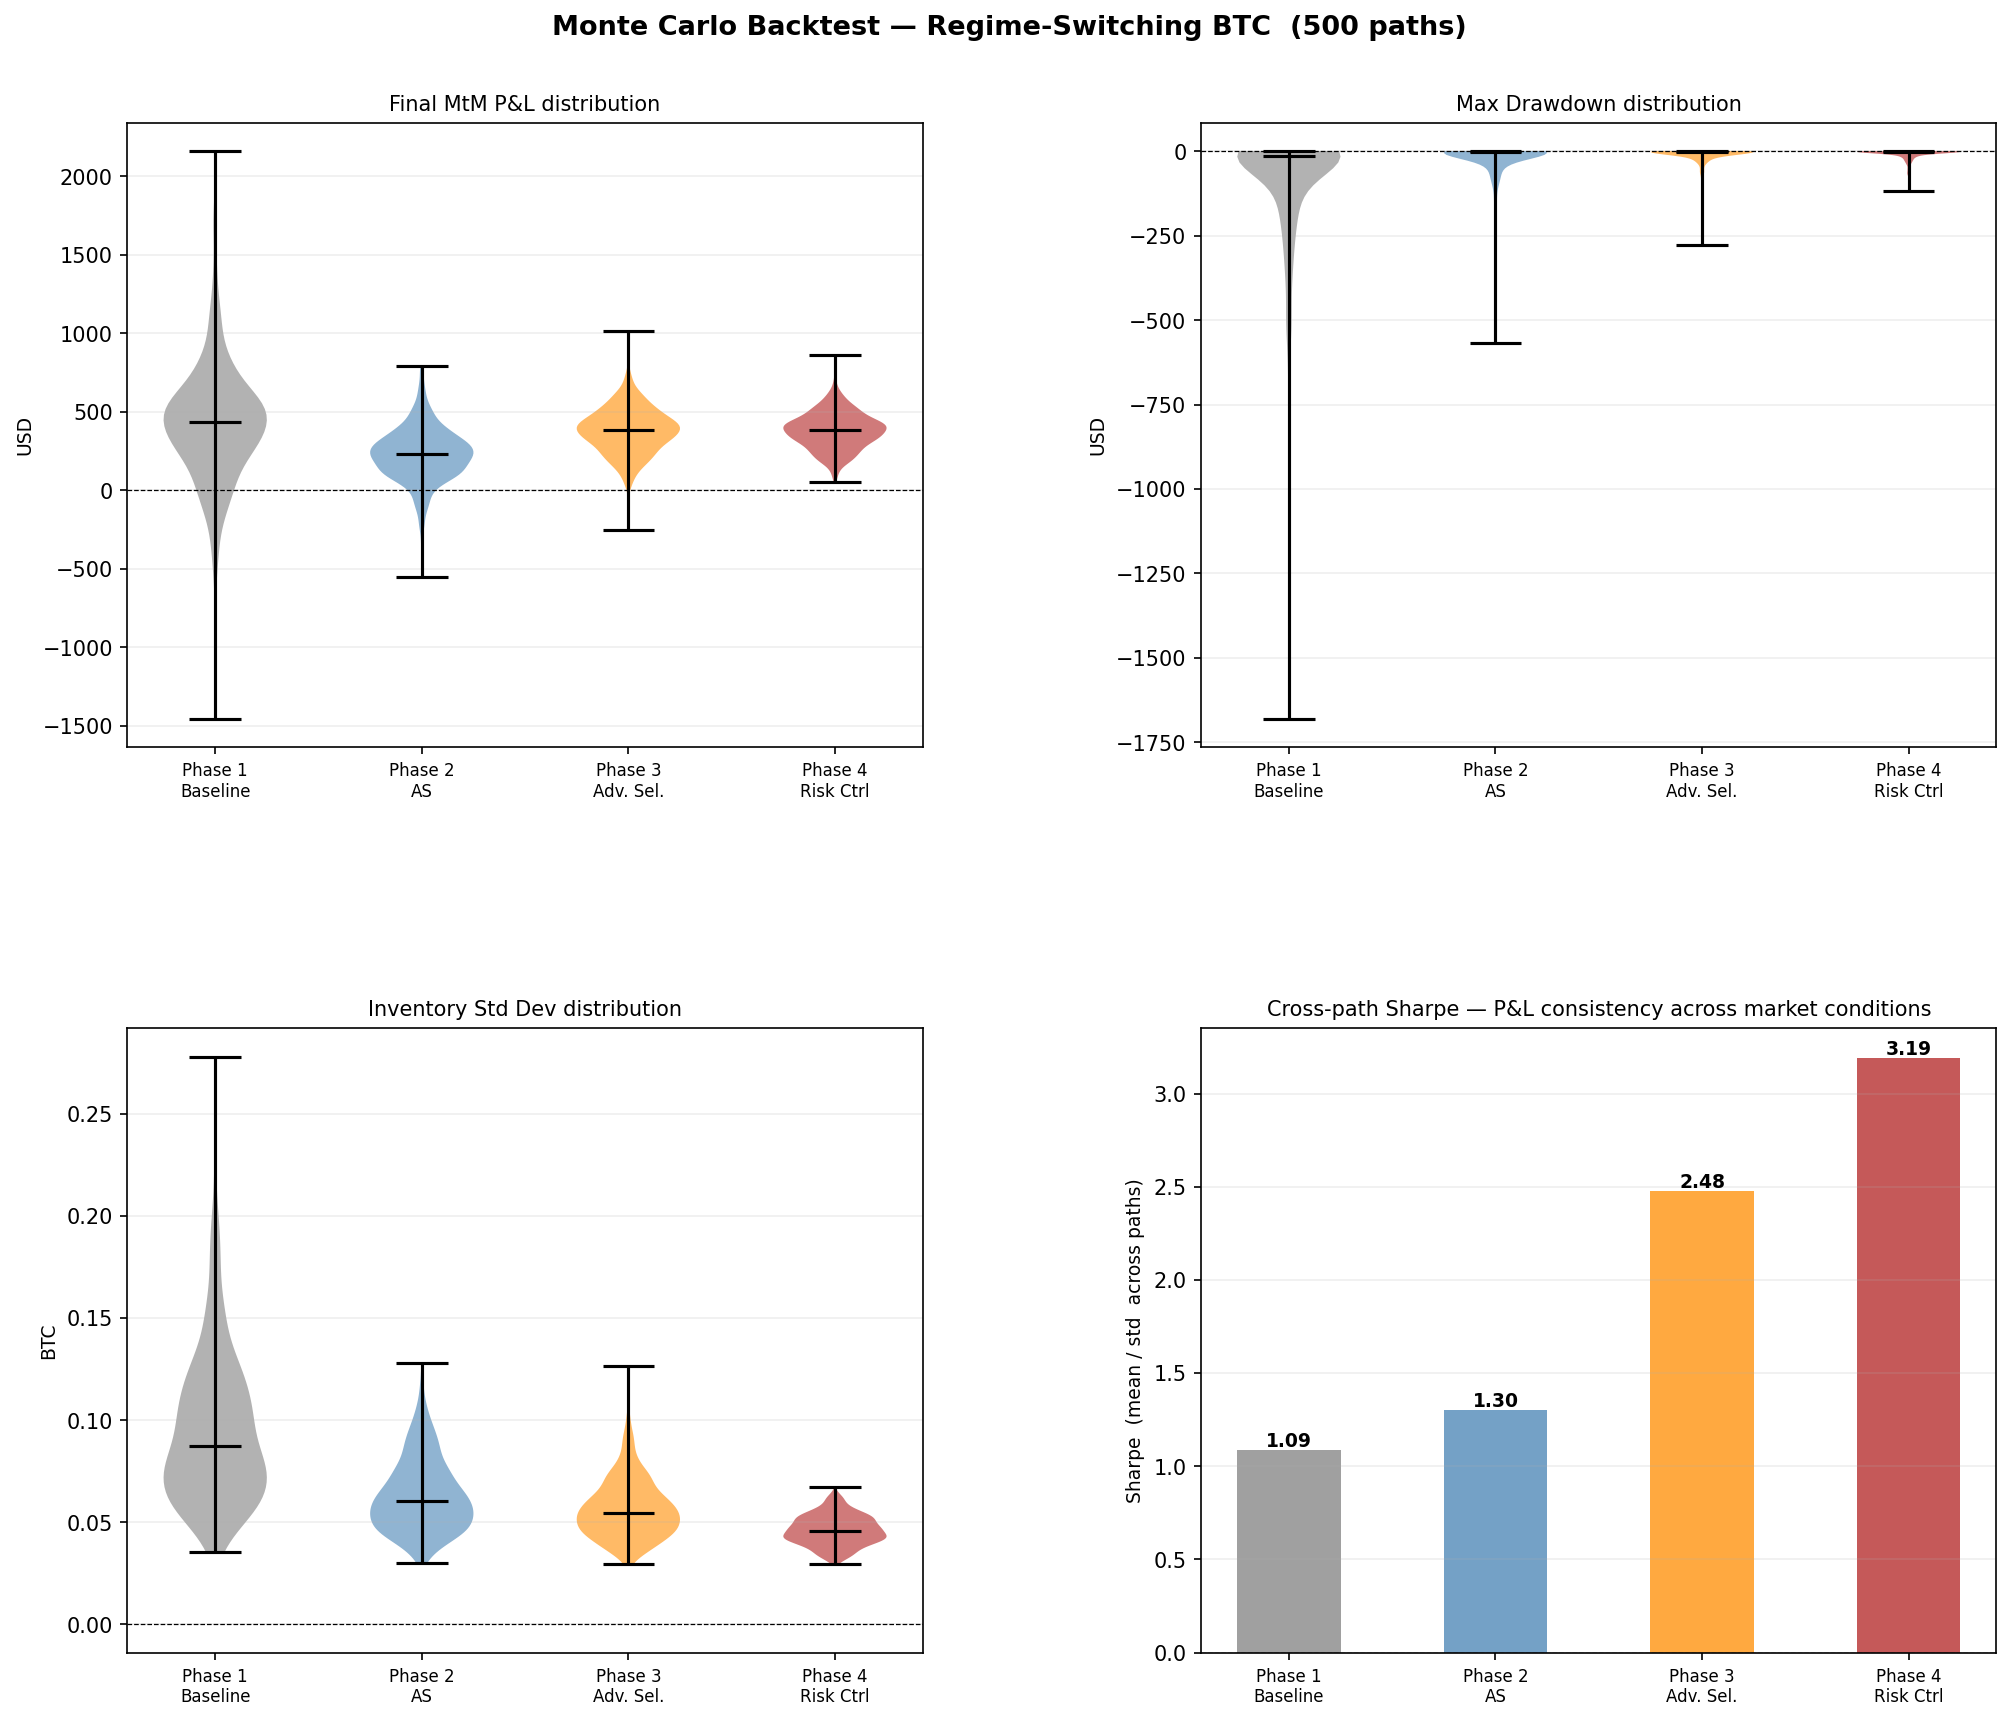
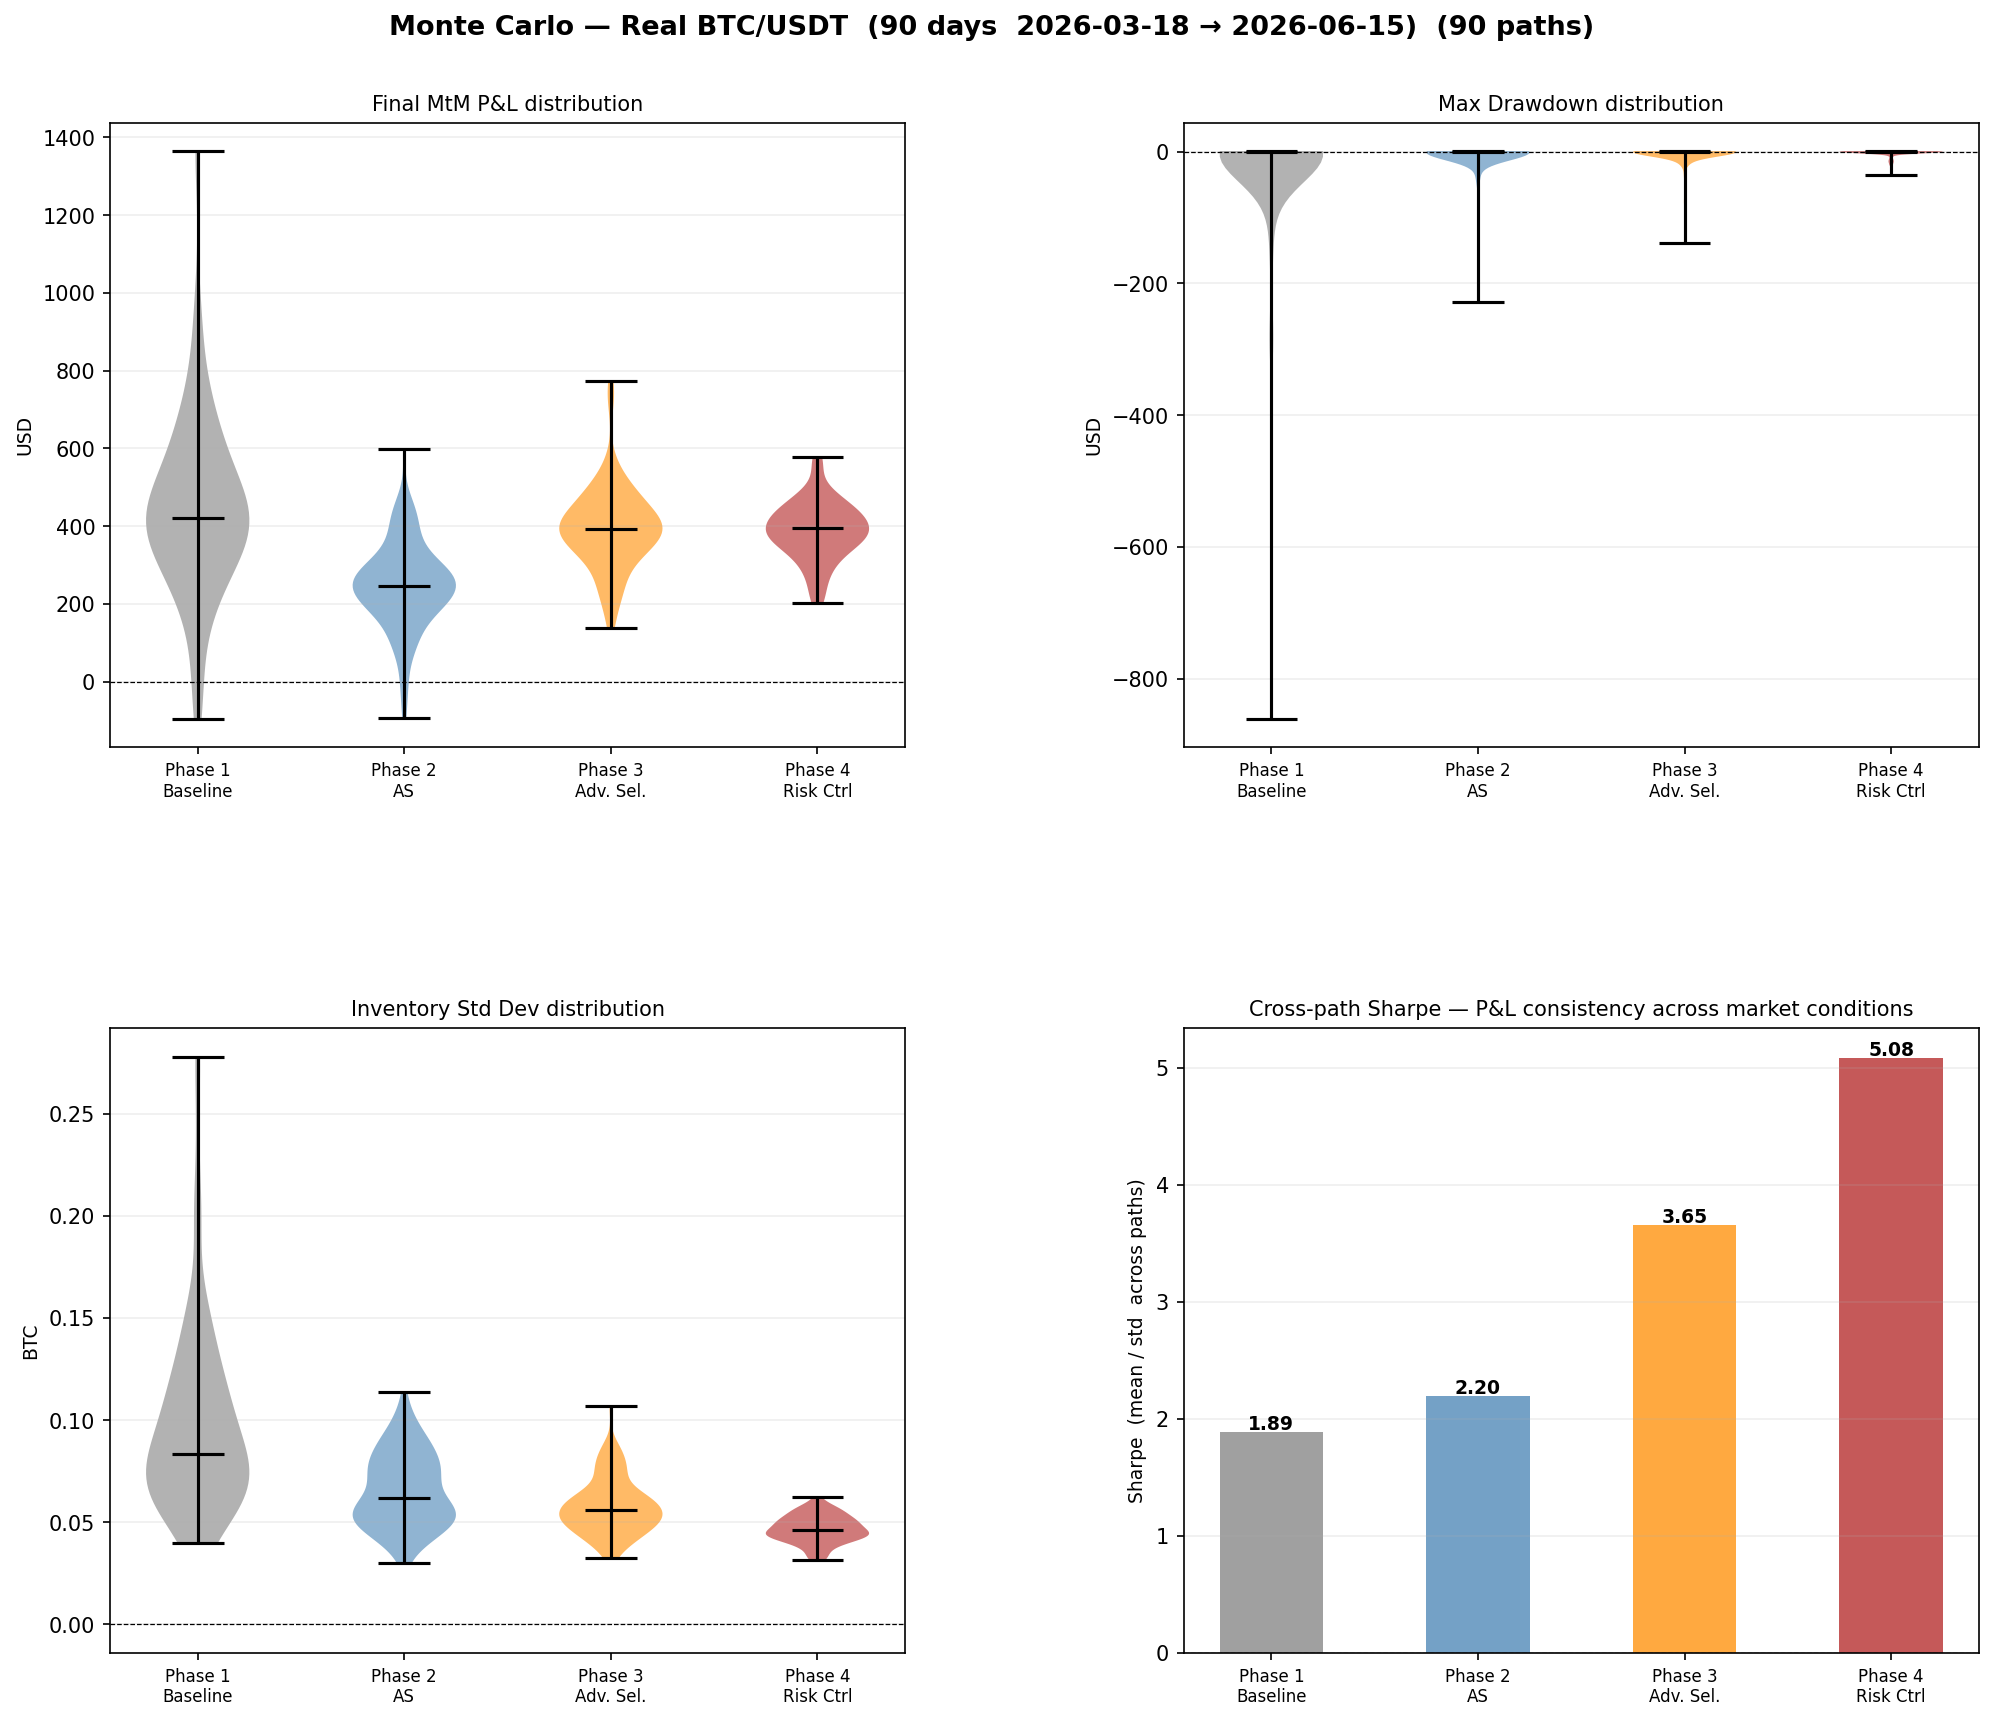
Monte Carlo: switch to real BTC historical data (90 days) with local cache

diff --git a/run_montecarlo.py b/run_montecarlo.py
@@ -1,9 +1,14 @@
 """
-Monte Carlo Backtest — runs all four models across N random price paths.
+Monte Carlo Backtest — runs all four models across multiple price paths.
+
+Default: real historical BTC/USDT data from Binance (90 days).
+         First run downloads and caches data; subsequent runs are instant.
+Fallback: synthetic GBM paths via --synthetic flag.
 
 Usage:
-    python run_montecarlo.py              # 500 paths (default)
-    python run_montecarlo.py --n-paths 200
+    python run_montecarlo.py                  # real data, last 90 days
+    python run_montecarlo.py --n-days 180     # real data, last 6 months
+    python run_montecarlo.py --synthetic      # GBM simulation (fast)
     python run_montecarlo.py --no-show
 """
 
@@ -13,6 +18,7 @@ import os
 import numpy as np
 import matplotlib.pyplot as plt
 
+from simulator.data_loader import fetch_historical_days
 from simulator.data_gen import generate_btc_price_regime
 from simulator.baseline_mm import BaselineMarketMaker
 from simulator.avellaneda_stoikov import AvellanedaStoikov
@@ -23,26 +29,28 @@ from simulator.visualize import plot_montecarlo
 
 def parse_args():
     p = argparse.ArgumentParser()
-    p.add_argument("--n-paths", type=int,   default=500)
-    p.add_argument("--n-steps", type=int,   default=1440)
-    p.add_argument("--S0",      type=float, default=50_000.0)
-    p.add_argument("--no-show", action="store_true")
+    p.add_argument("--n-days",   type=int,  default=90,    help="Days of real data (default 90)")
+    p.add_argument("--n-paths",  type=int,  default=500,   help="Paths for --synthetic mode")
+    p.add_argument("--n-steps",  type=int,  default=1440)
+    p.add_argument("--synthetic",action="store_true",      help="Use GBM instead of real data")
+    p.add_argument("--no-show",  action="store_true")
     return p.parse_args()
 
 
-def run_one_path(seed, n_steps, S0):
-    prices, _ = generate_btc_price_regime(S0=S0, n_steps=n_steps, seed=seed)
-    shared = dict(lot_size=0.01, initial_cash=100_000.0, seed=seed)
+def run_one_path(prices, seed=0):
+    n = len(prices)
+    S0 = float(prices.iloc[0])
+    shared = dict(lot_size=0.01, initial_cash=S0 * 2, seed=seed)
 
     models = {
         "Baseline": BaselineMarketMaker(delta=50.0, prob_fill=0.30, **shared),
         "AS":       AvellanedaStoikov(gamma=50.0, delta_0=45.0, delta_min=5.0,
-                                      T=n_steps, **shared),
+                                      T=n, **shared),
         "Phase3":   AdverseSelectionMM(gamma=50.0, delta_0=45.0, delta_min=5.0,
-                                       T=n_steps, toxicity_window=30, toxicity_mult=2.0,
+                                       T=n, toxicity_window=30, toxicity_mult=2.0,
                                        **shared),
         "Phase4":   RiskControlMM(gamma=50.0, delta_0=45.0, delta_min=5.0,
-                                   T=n_steps, toxicity_window=30, toxicity_mult=2.0,
+                                   T=n, toxicity_window=30, toxicity_mult=2.0,
                                    max_inventory=0.10, vol_threshold=1.2,
                                    vol_spread_mult=1.3, max_holding_steps=120,
                                    max_inventory_loss=150.0, **shared),
@@ -61,37 +69,60 @@ def run_one_path(seed, n_steps, S0):
 
 def main():
     args = parse_args()
-    N = args.n_paths
-
-    # Aggregate stats
     stats = {name: {"final_pnl": [], "max_drawdown": [], "inv_std": []}
              for name in ["Baseline", "AS", "Phase3", "Phase4"]}
 
-    print(f"Running {N} paths across 4 models…")
-    for i in range(N):
-        if (i + 1) % 100 == 0:
-            print(f"  {i+1}/{N}")
-        path_results = run_one_path(seed=i, n_steps=args.n_steps, S0=args.S0)
-        for name, metrics in path_results.items():
-            for key, val in metrics.items():
-                stats[name][key].append(val)
+    if args.synthetic:
+        # ── GBM mode ───────────────────────────────────────────────────
+        N = args.n_paths
+        print(f"Running {N} synthetic GBM paths…")
+        for i in range(N):
+            if (i + 1) % 100 == 0:
+                print(f"  {i+1}/{N}")
+            prices, _ = generate_btc_price_regime(
+                S0=50_000.0, n_steps=args.n_steps, seed=i)
+            for name, metrics in run_one_path(prices, seed=i).items():
+                for key, val in metrics.items():
+                    stats[name][key].append(val)
+        title = f"Monte Carlo — Synthetic GBM  ({N} paths)"
 
-    # Summary table
+    else:
+        # ── Real data mode ─────────────────────────────────────────────
+        print(f"Fetching {args.n_days} days of real BTC/USDT data…")
+        print("  (cached days load instantly, new days download from Binance)")
+        days = fetch_historical_days(n_days=args.n_days)
+        N = len(days)
+        print(f"  {N} valid days loaded\n")
+
+        for i, prices in enumerate(days):
+            date_str = prices.index[0].strftime("%Y-%m-%d")
+            move = (prices.iloc[-1] / prices.iloc[0] - 1) * 100
+            if (i + 1) % 10 == 0 or i == 0:
+                print(f"  [{i+1:3d}/{N}] {date_str}  {move:+.2f}%")
+            for name, metrics in run_one_path(prices, seed=i).items():
+                for key, val in metrics.items():
+                    stats[name][key].append(val)
+
+        start = days[0].index[0].strftime("%Y-%m-%d")
+        end   = days[-1].index[0].strftime("%Y-%m-%d")
+        title = f"Monte Carlo — Real BTC/USDT  ({N} days  {start} → {end})"
+
+    # ── Summary table ──────────────────────────────────────────────────
     print("\n" + "=" * 80)
     print(f"  {'Model':<20} {'P&L mean':>10} {'P&L std':>10} {'Sharpe':>8} "
           f"{'MaxDD mean':>12} {'InvStd mean':>12}")
     print("=" * 80)
     for name in stats:
-        pnl = np.array(stats[name]["final_pnl"])
-        mdd = np.array(stats[name]["max_drawdown"])
-        inv = np.array(stats[name]["inv_std"])
+        pnl    = np.array(stats[name]["final_pnl"])
+        mdd    = np.array(stats[name]["max_drawdown"])
+        inv    = np.array(stats[name]["inv_std"])
         sharpe = pnl.mean() / (pnl.std() + 1e-9)
+        win    = (pnl > 0).mean()
         print(f"  {name:<20} {pnl.mean():>+10.2f} {pnl.std():>10.2f} {sharpe:>8.3f} "
-              f"{mdd.mean():>+12.2f} {inv.mean():>12.4f}")
+              f"{mdd.mean():>+12.2f} {inv.mean():>12.4f}  win={win:.0%}")
     print("=" * 80)
 
-    fig = plot_montecarlo(stats, n_paths=N,
-                          title="Monte Carlo Backtest — Regime-Switching BTC")
+    fig = plot_montecarlo(stats, n_paths=N, title=title)
 
     out_path = os.path.join(os.path.dirname(__file__), "montecarlo_results.png")
     fig.savefig(out_path, dpi=150, bbox_inches="tight")

diff --git a/simulator/data_loader.py b/simulator/data_loader.py
@@ -7,11 +7,15 @@ Usage:
     prices = fetch_btc_price(date="2024-06-01")  # specific date
 """
 
+import os
 import time
 from datetime import datetime, timedelta, timezone
+from typing import List
 
 import pandas as pd
 import requests
+
+CACHE_DIR = os.path.join(os.path.dirname(__file__), "..", "data_cache")
 
 BINANCE_URL = "https://api.binance.com/api/v3/klines"
 MAX_PER_REQUEST = 1000  # Binance hard limit per request
@@ -75,6 +79,58 @@ def fetch_btc_price(
     timestamps = [pd.Timestamp(b[0], unit="ms", tz="UTC") for b in bars[:n_steps]]
 
     return pd.Series(closes, index=timestamps, name="mid_price")
+
+
+def fetch_historical_days(
+    n_days: int = 90,
+    end_date: str = None,
+    symbol: str = "BTCUSDT",
+    min_bars: int = 1200,
+) -> List[pd.Series]:
+    """
+    Fetch n_days of 1-minute close prices, one pd.Series per calendar day.
+    Results are cached locally in data_cache/ so subsequent runs are instant.
+
+    Args:
+        n_days   : number of calendar days to fetch (default 90 = ~3 months)
+        end_date : "YYYY-MM-DD" last day to include, default = yesterday
+        min_bars : skip days with fewer bars (e.g. exchange downtime)
+
+    Returns:
+        List of pd.Series, each being one day of 1-minute prices.
+    """
+    os.makedirs(CACHE_DIR, exist_ok=True)
+
+    if end_date is None:
+        end_dt = datetime.now(timezone.utc).date() - timedelta(days=1)
+    else:
+        end_dt = datetime.strptime(end_date, "%Y-%m-%d").date()
+
+    days: List[pd.Series] = []
+
+    for i in range(n_days, 0, -1):
+        date = end_dt - timedelta(days=i - 1)
+        date_str = date.strftime("%Y-%m-%d")
+        cache_path = os.path.join(CACHE_DIR, f"{symbol}_{date_str}.csv")
+
+        # Load from cache if available
+        if os.path.exists(cache_path):
+            df = pd.read_csv(cache_path, index_col=0, parse_dates=True)
+            prices = df["mid_price"]
+        else:
+            try:
+                prices = fetch_btc_price(date=date_str, n_steps=1440, symbol=symbol)
+                if len(prices) >= min_bars:
+                    prices.to_frame().to_csv(cache_path)
+                time.sleep(0.1)   # gentle rate limiting
+            except Exception as e:
+                print(f"  [skip] {date_str}: {e}")
+                continue
+
+        if len(prices) >= min_bars:
+            days.append(prices)
+
+    return days
 
 
 def fetch_btc_ohlcv(